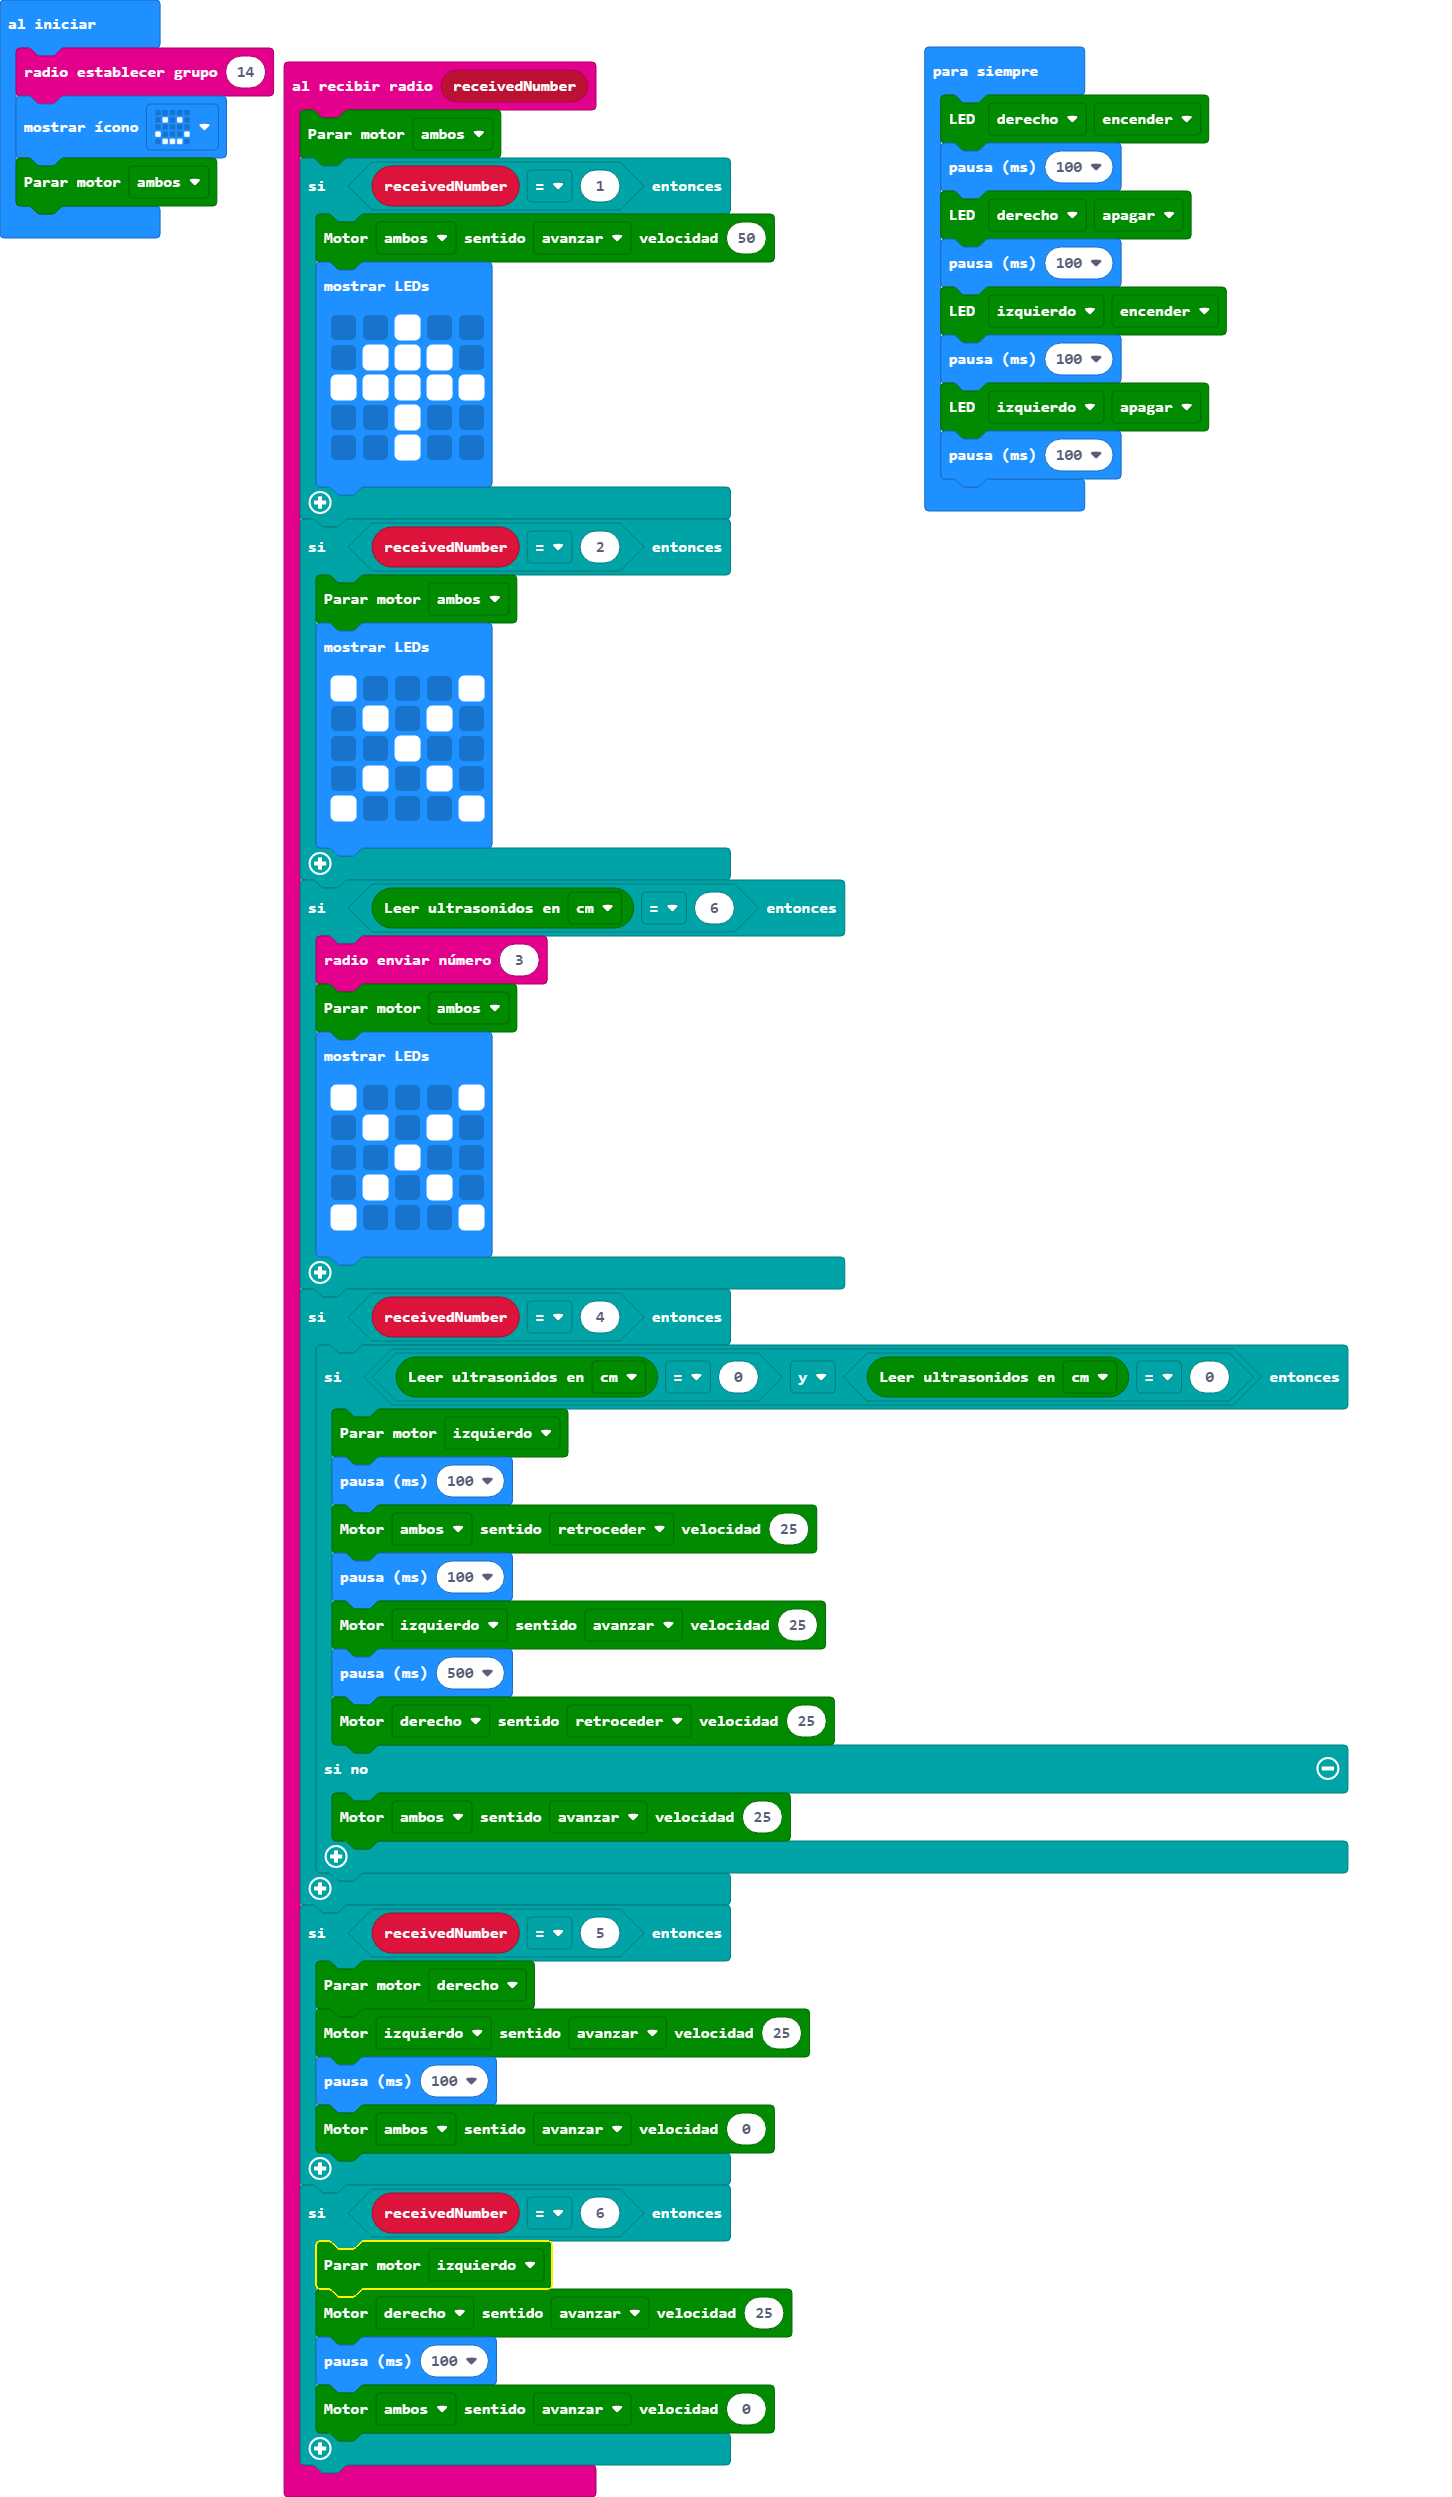
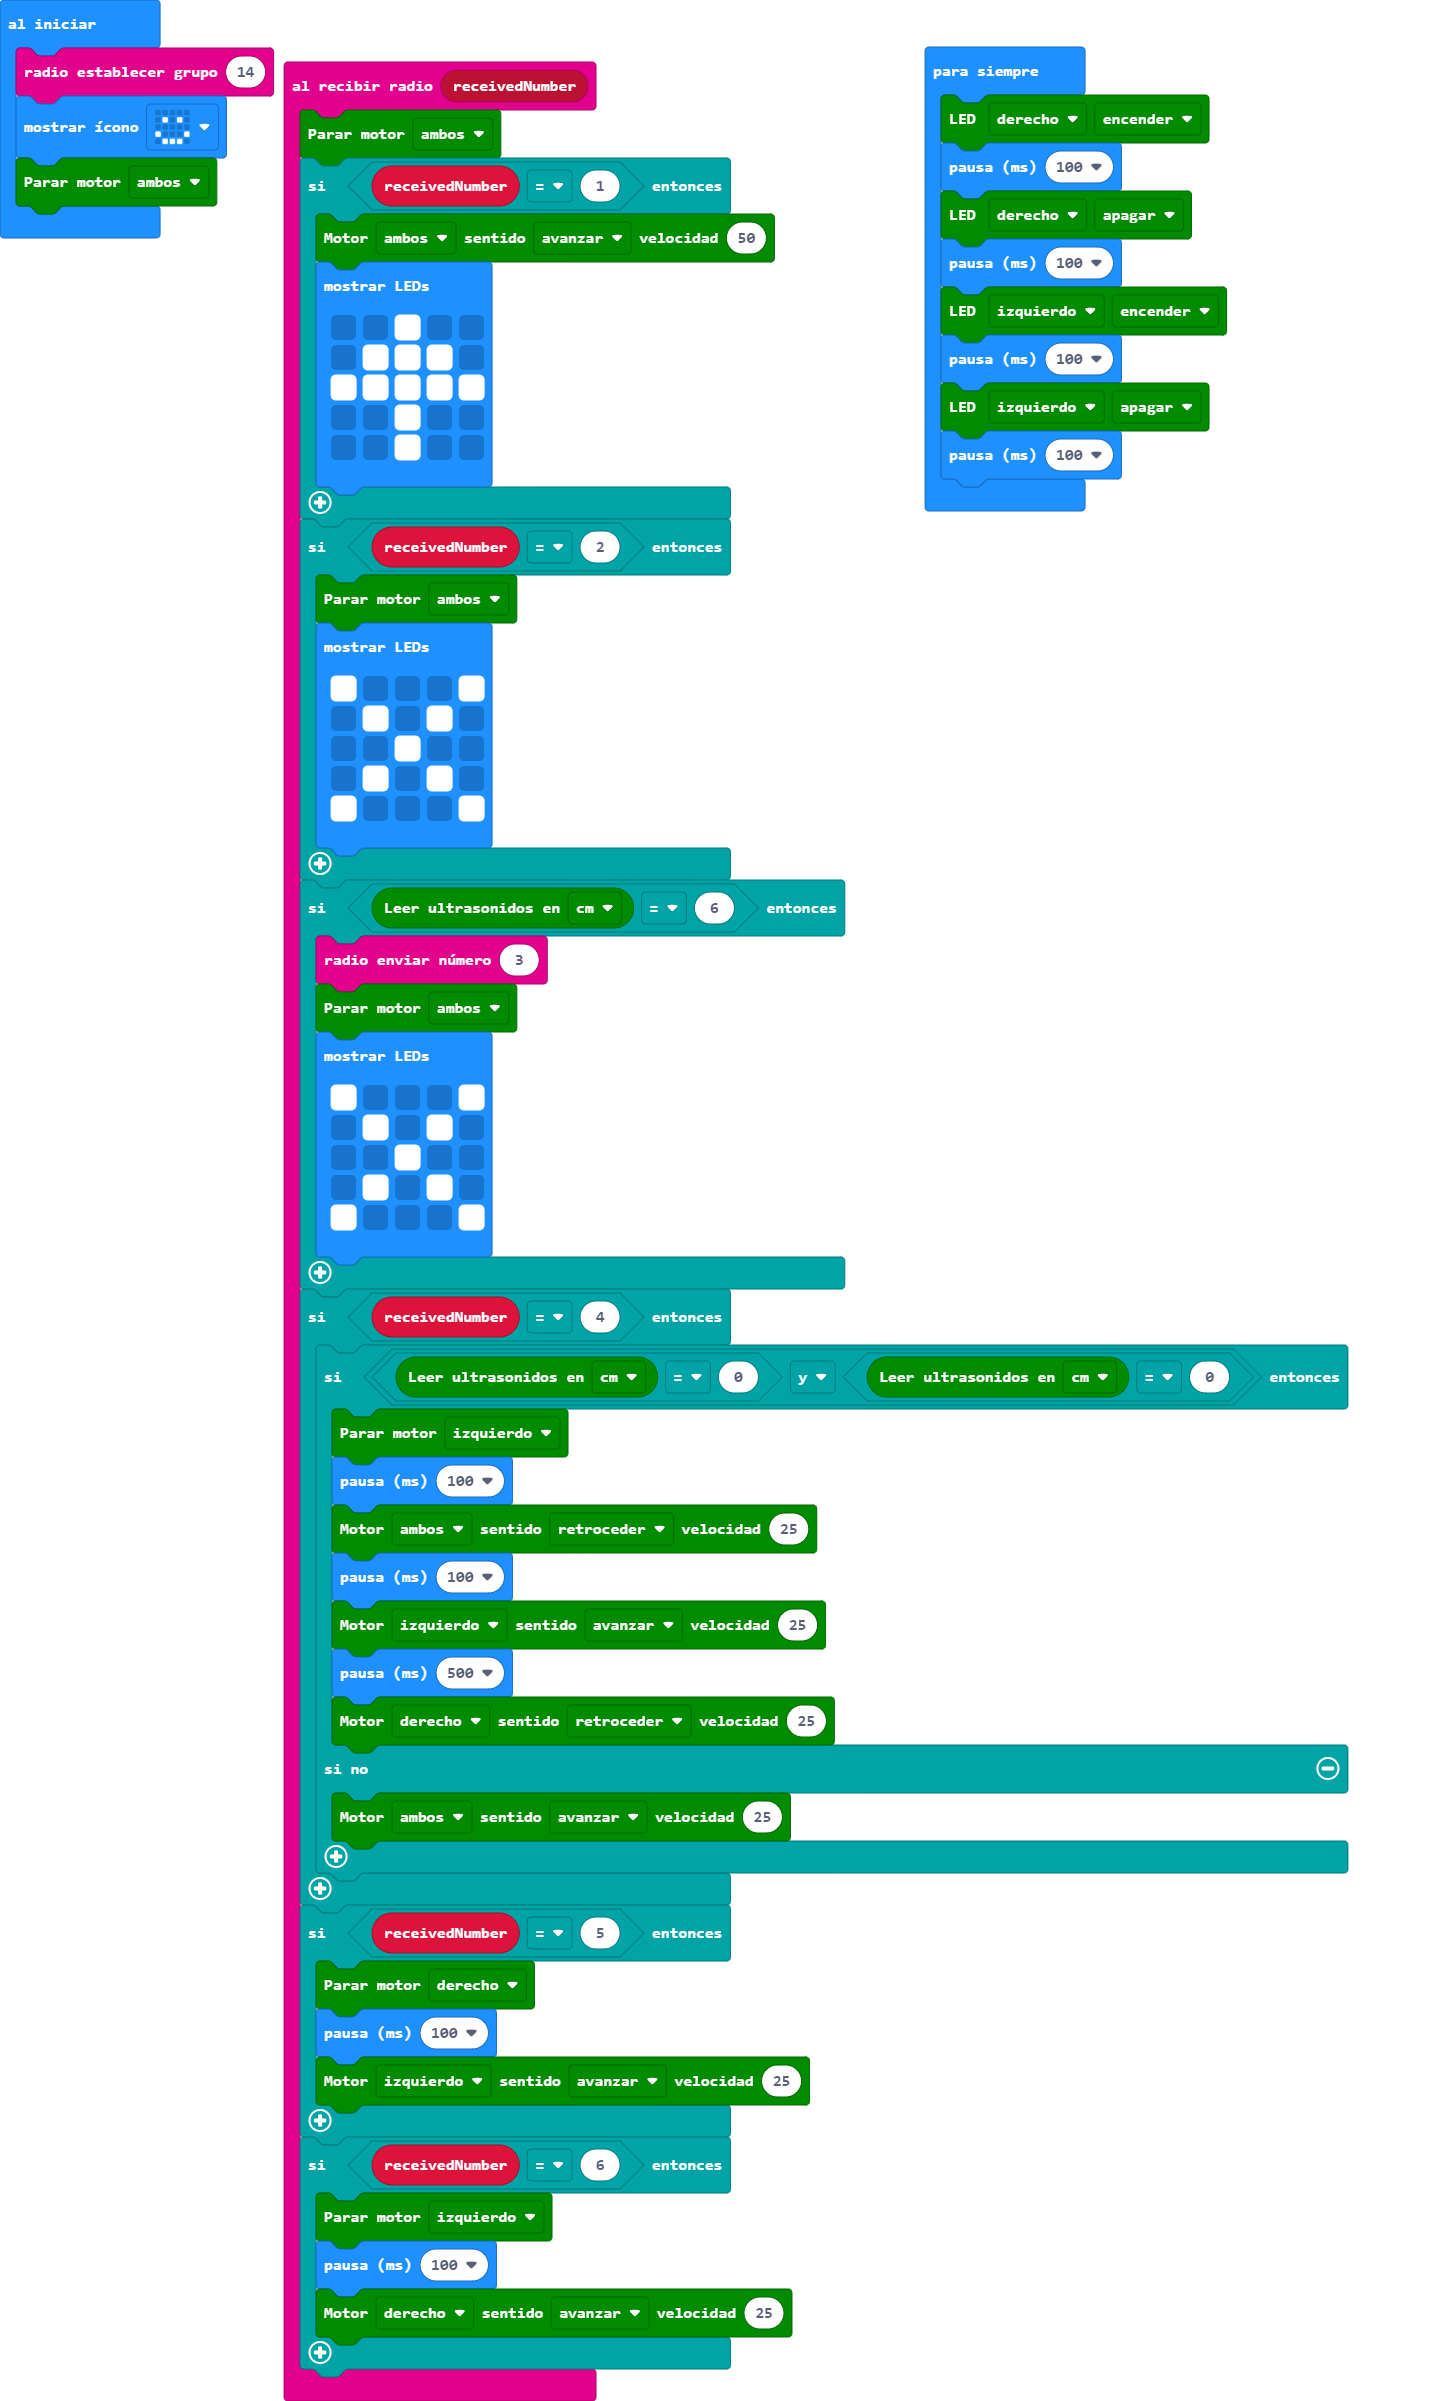
preyectofinalmaquen

Changed region(s): [[0.0, 0.0, 0.9298, 0.9996], [0.6198, 0.0, 0.8368, 0.2187]]

diff --git a/main.ts b/main.ts
@@ -46,15 +46,13 @@ radio.onReceivedNumber(function (receivedNumber) {
     }
     if (receivedNumber == 5) {
         maqueen.motorStop(maqueen.Motors.M2)
-        maqueen.motorRun(maqueen.Motors.M1, maqueen.Dir.CW, 25)
         basic.pause(100)
-        maqueen.motorRun(maqueen.Motors.All, maqueen.Dir.CW, 0)
+        maqueen.motorRun(maqueen.Motors.M1, maqueen.Dir.CW, 25)
     }
     if (receivedNumber == 6) {
         maqueen.motorStop(maqueen.Motors.M1)
-        maqueen.motorRun(maqueen.Motors.M2, maqueen.Dir.CW, 25)
         basic.pause(100)
-        maqueen.motorRun(maqueen.Motors.All, maqueen.Dir.CW, 0)
+        maqueen.motorRun(maqueen.Motors.M2, maqueen.Dir.CW, 25)
     }
 })
 radio.setGroup(14)
